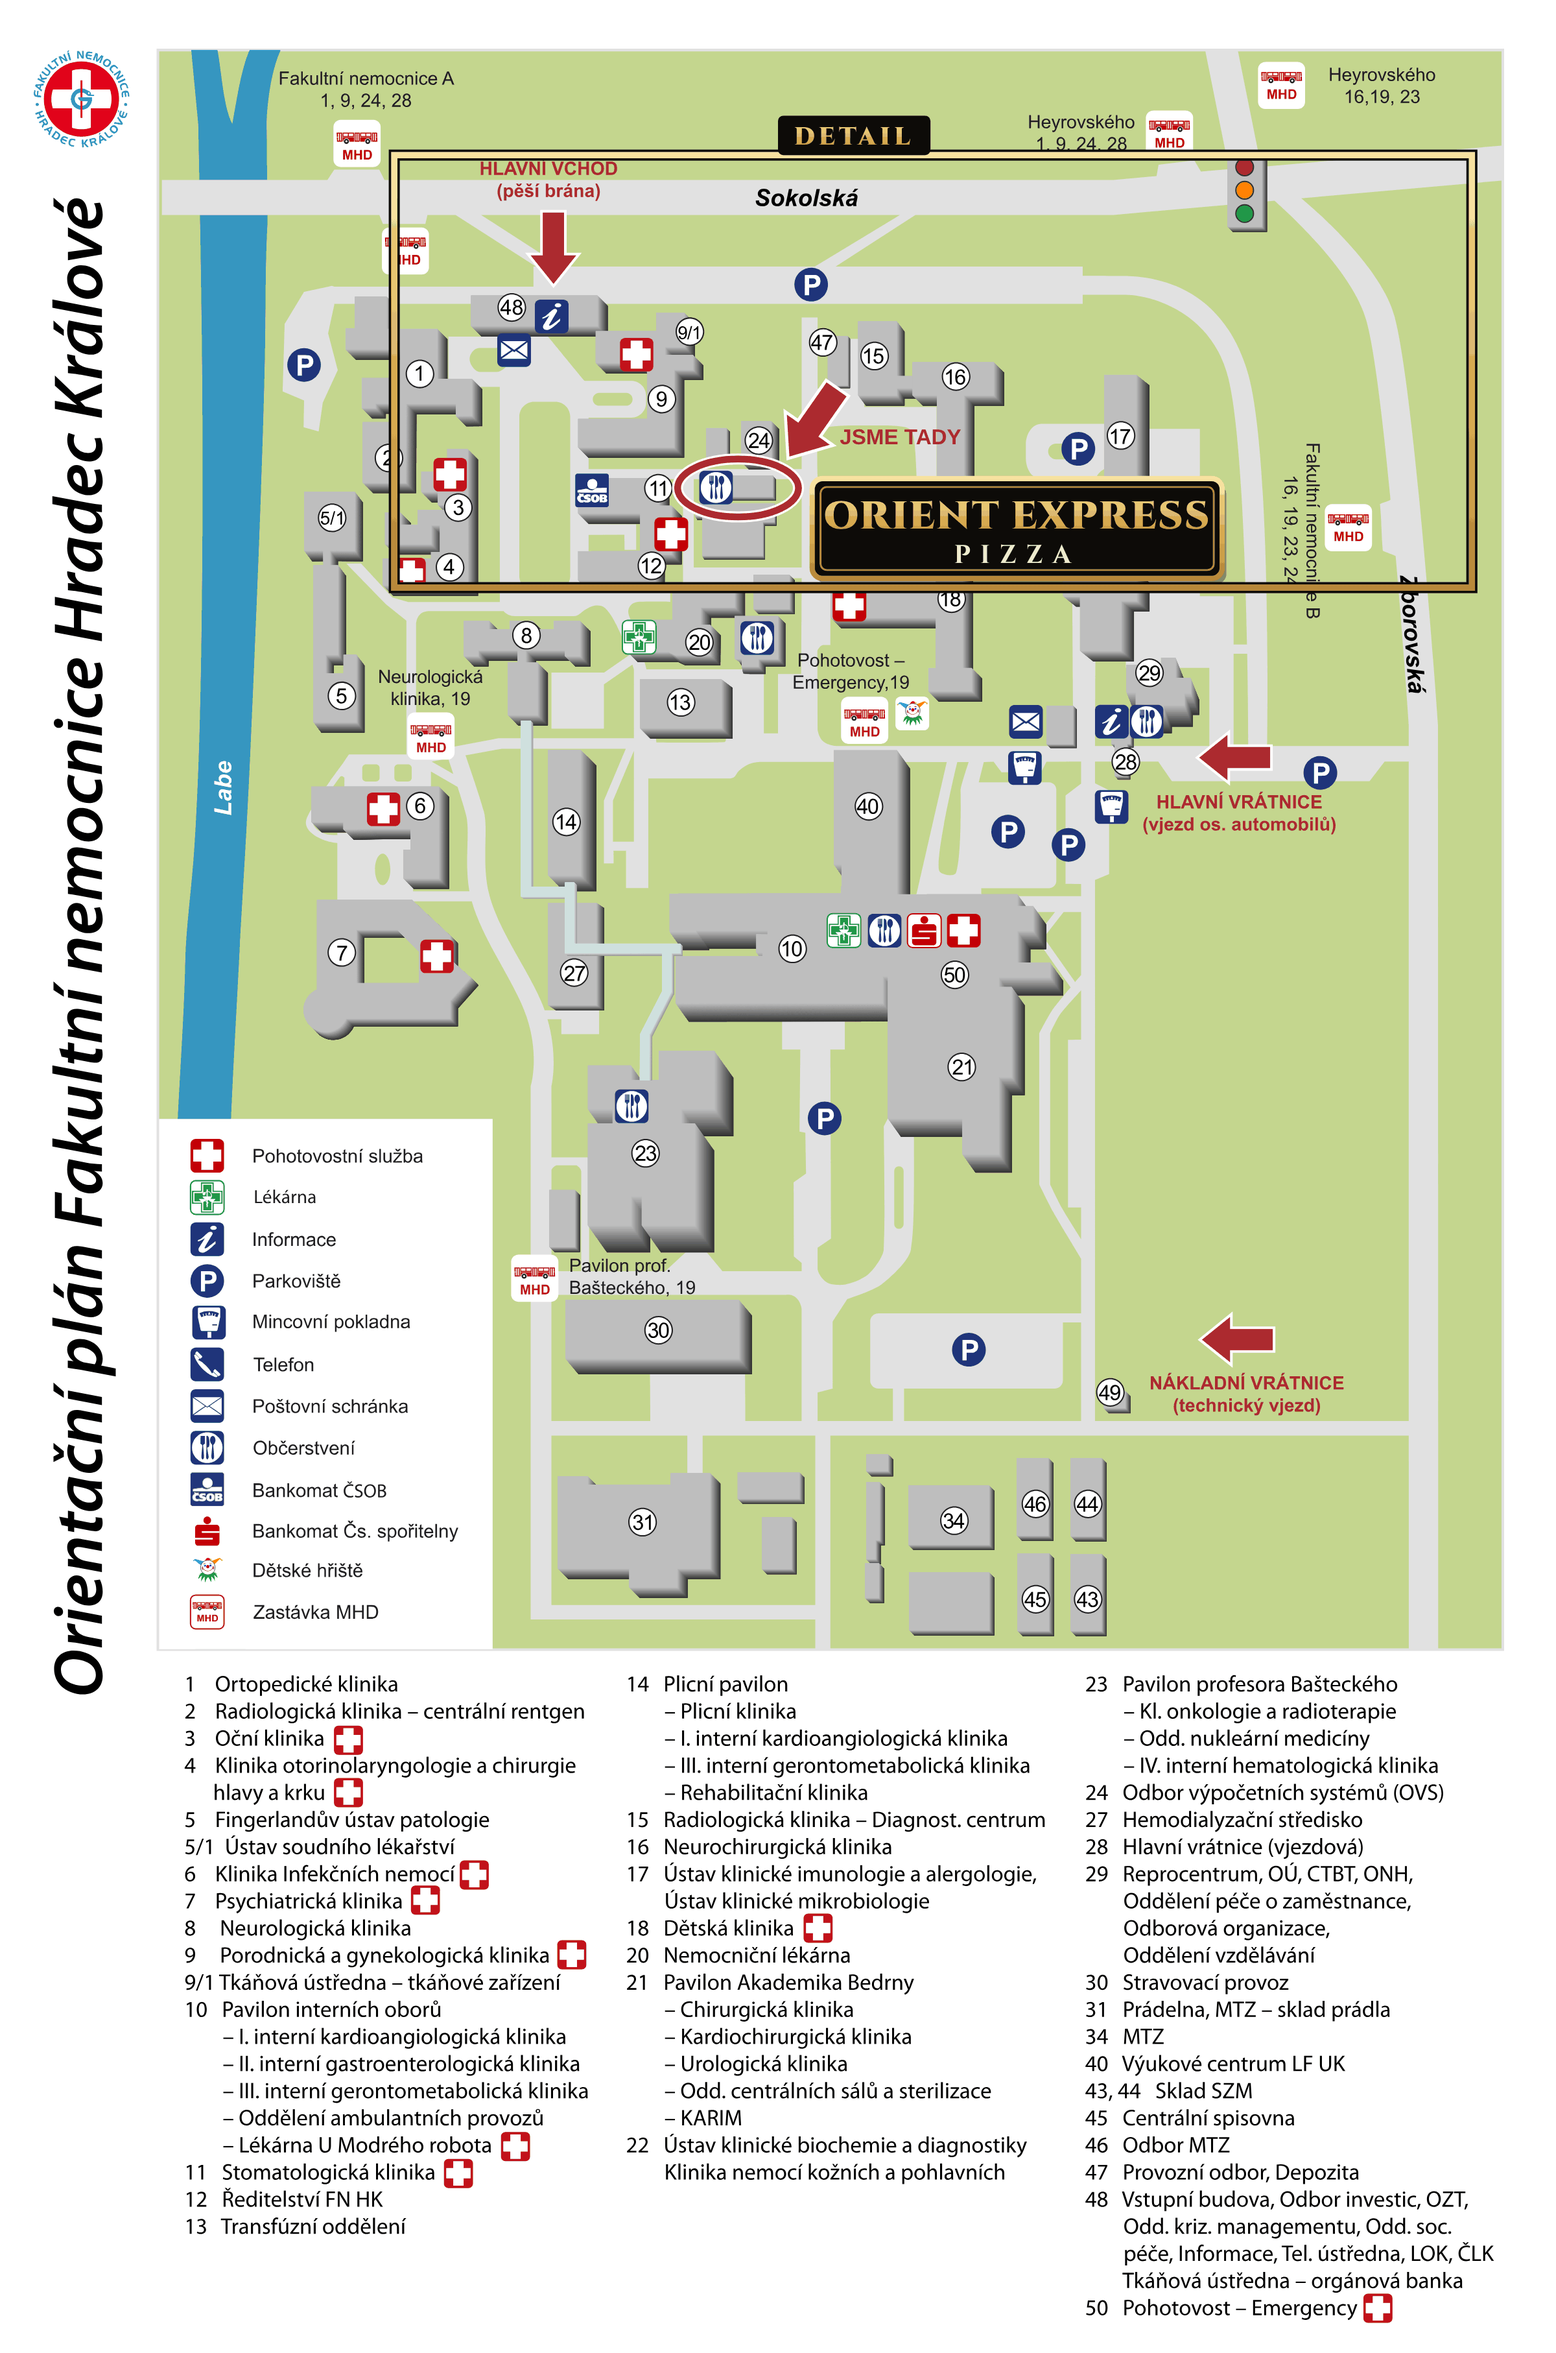
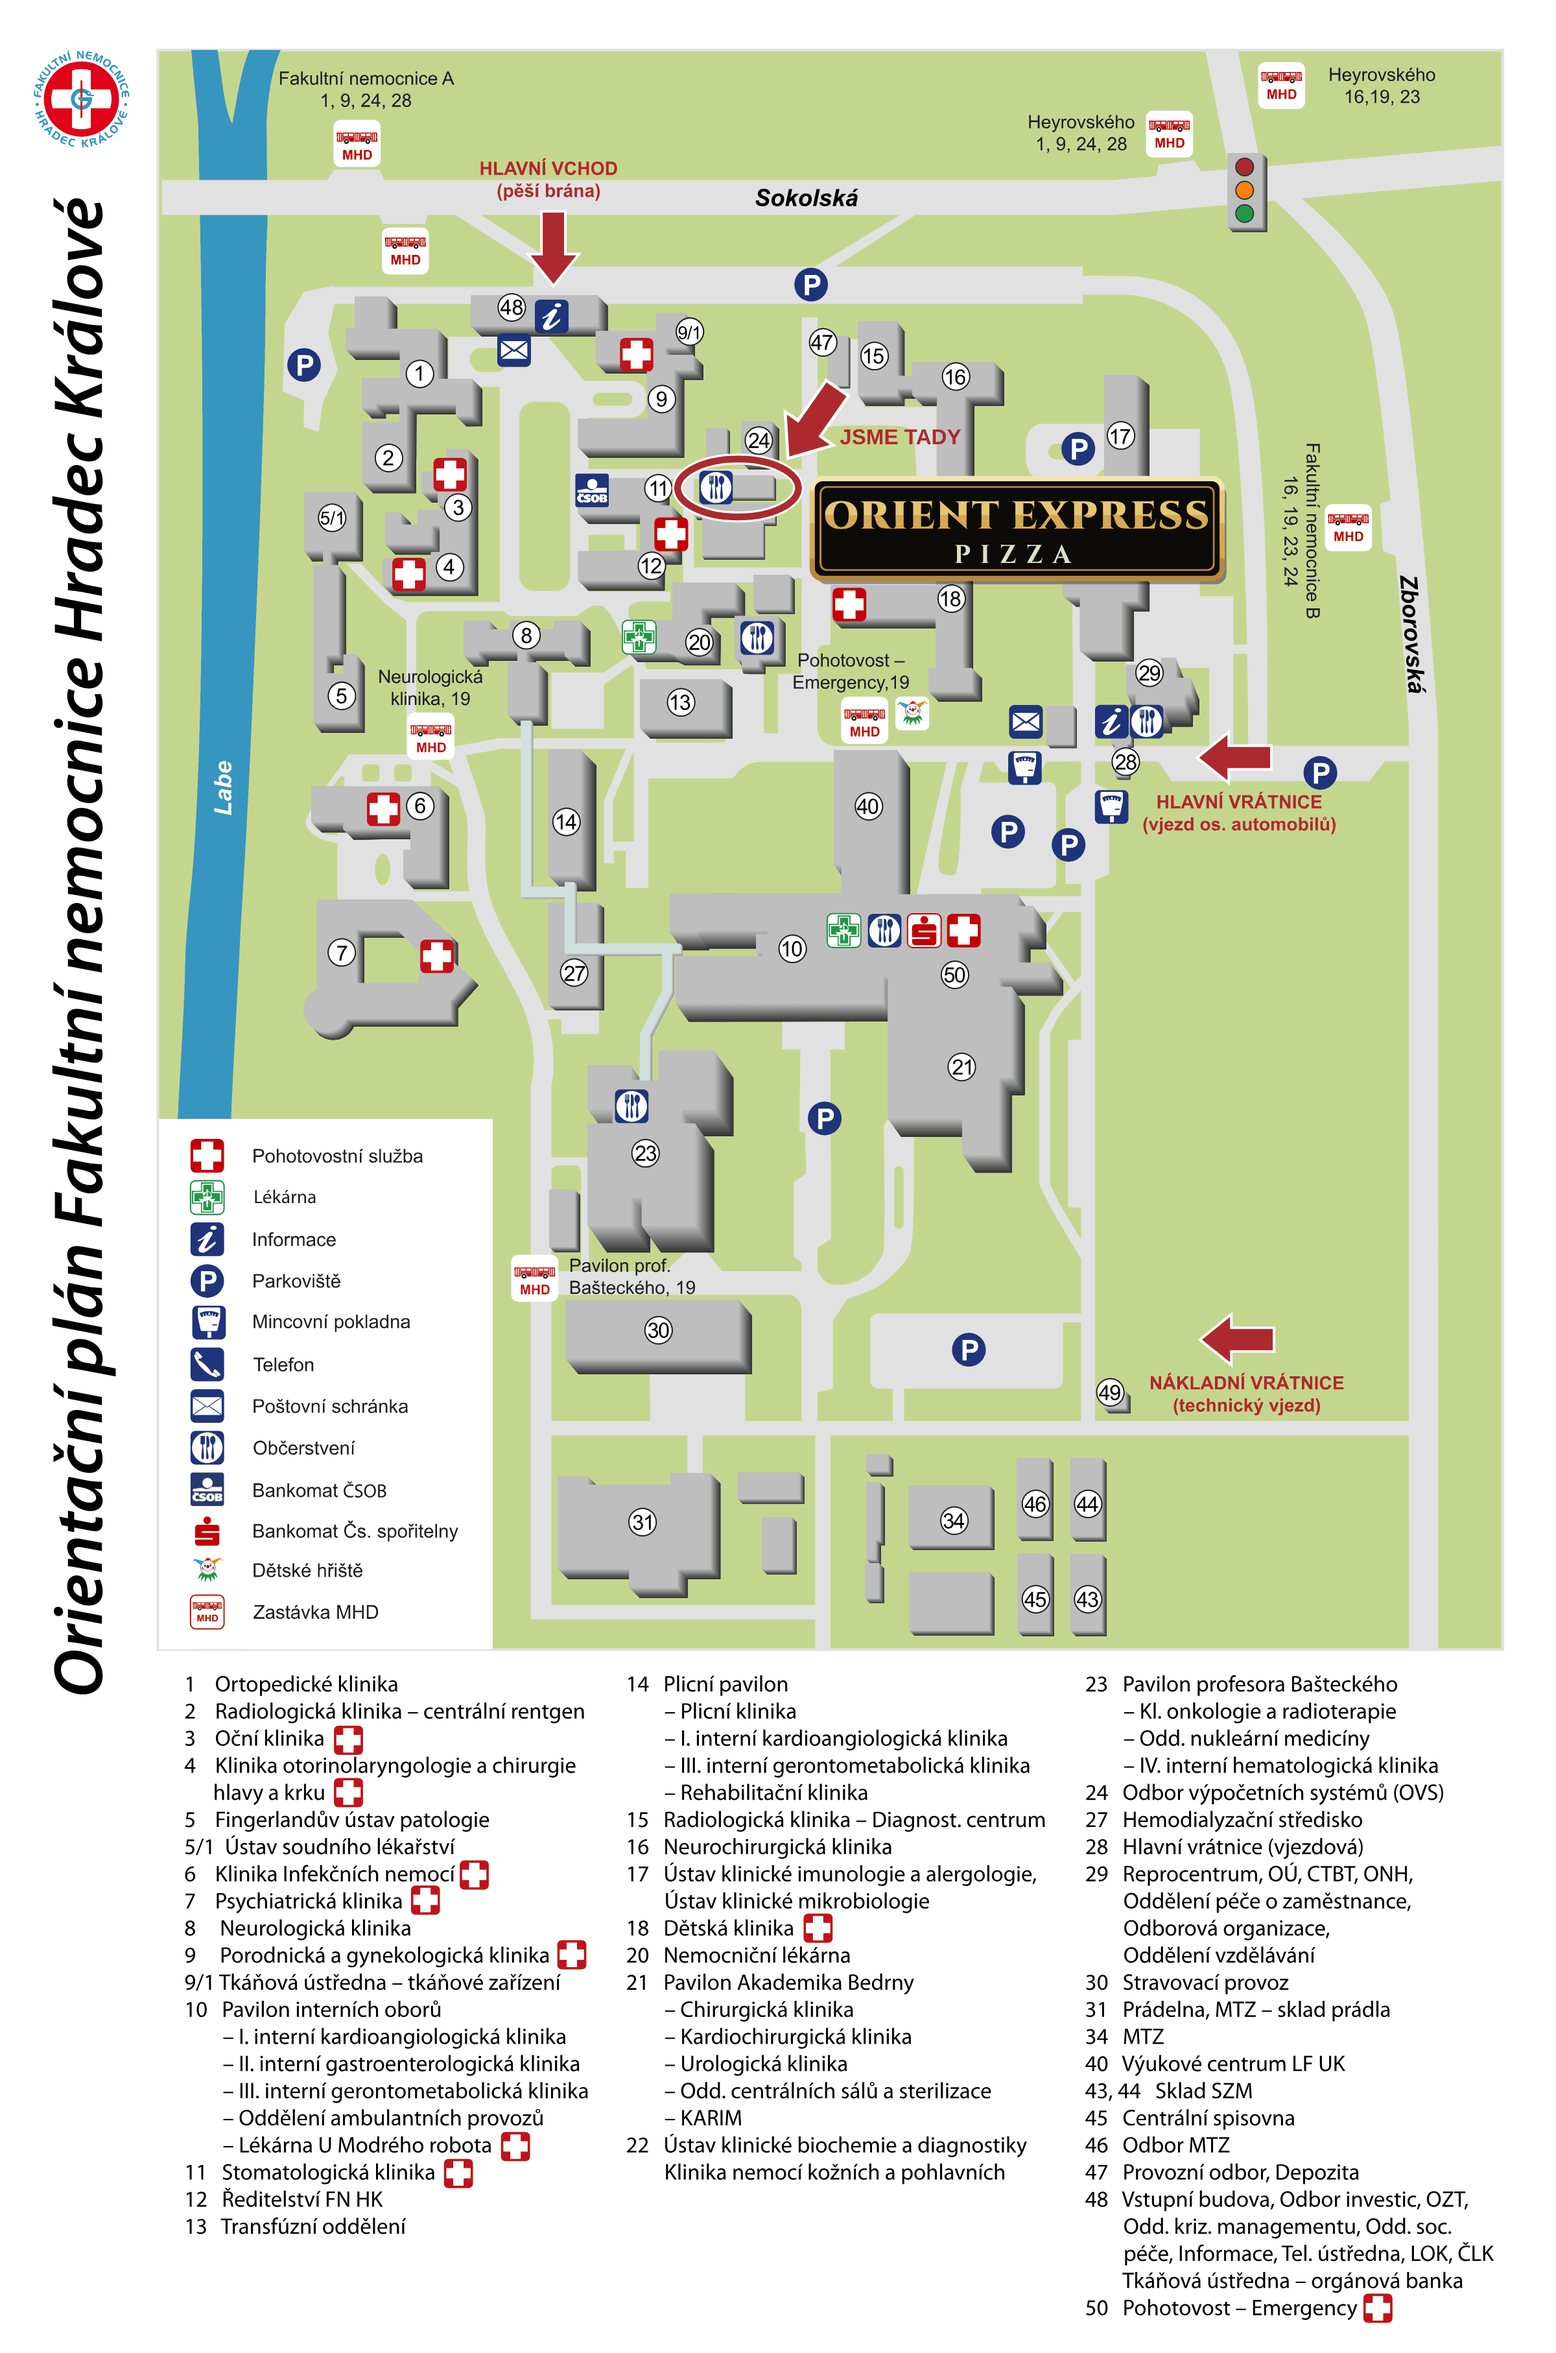
Remove DETAIL frame and detail crop from the campus map
Restore the frameless map (same overlay, from iteration 4), drop the
detail figure, its CSS and mapa-detail.png, and strip the frame/crop
code from the map scripts. Move CLAUDE.md and CNAME out of the
published site; CNAME returns when the domain is linked.

Changed region(s): [[0.25, 0.0311, 0.9688, 0.2492], [0.5312, 0.2492, 0.5625, 0.2803], [0.4688, 0.2492, 0.5, 0.2803]]

diff --git a/index.html b/index.html
@@ -121,16 +121,6 @@ h2 { font-family: 'Cinzel'; font-weight: 700; text-align: center; color: var(--g
 .hours td { padding: 3px 0; } .hours td:last-child { text-align: right; color: var(--muted); }
 .mapimg { display: block; border: 2px solid var(--gold-d); border-radius: 12px; overflow: hidden; background: #fff; }
 .mapcap { color: var(--muted); font-size: 15px; margin-top: 8px; text-align: center; }
-/* card + detail stacked in the left column, full map spans both rows on the right */
-.contact .card { grid-column: 1; grid-row: 1; }
-.contact { grid-template-rows: auto 1fr; }
-.contact .detail { grid-column: 1; grid-row: 2; position: relative; margin: 0; align-self: start; }
-.contact .fullmap { grid-column: 2; grid-row: 1 / span 2; }
-.detail a { display: block; border: 4px solid var(--gold); outline: 2px solid #0d0b08; outline-offset: -6px;
-            border-radius: 6px; overflow: hidden; background: #fff; }
-.detail .dtag { position: absolute; top: -14px; left: 50%; transform: translateX(-50%); z-index: 1;
-                background: #0d0b08; border: 2px solid var(--gold); border-radius: 4px; padding: 2px 14px;
-                font-family: 'Cinzel'; font-weight: 900; font-size: 15px; letter-spacing: 3px; color: var(--gold-l); }
 .gmap { margin-top: 28px; border: 2px solid var(--gold-d); border-radius: 12px; overflow: hidden; }
 .gmap iframe { width: 100%; height: 360px; border: 0; display: block; }
 
@@ -142,9 +132,6 @@ footer { text-align: center; padding: 28px 0 90px; color: var(--muted); font-siz
 @media (max-width: 820px) {
   .top nav { display: none; }
   .menu-grid, .akce-grid, .contact { grid-template-columns: 1fr; }
-  .contact { grid-template-rows: none; }
-  .contact .card, .contact .detail, .contact .fullmap { grid-column: 1; grid-row: auto; }
-  .contact .detail { margin-top: 10px; }
   .callbar { display: flex; position: fixed; left: 0; right: 0; bottom: 0; z-index: 20; gap: 10px; padding: 10px 16px;
              background: rgba(13,11,8,.95); border-top: 1px solid var(--gold-d); }
   .callbar .btn { flex: 1; justify-content: center; padding: 12px 8px; font-size: 16px; }
@@ -276,11 +263,6 @@ footer { text-align: center; padding: 28px 0 90px; color: var(--muted); font-siz
             <tr><td>Ne</td><td>Zavřeno</td></tr>
           </table>
         </div>
-        <!-- DETAIL: výřez plánu (zlatý rámeček „DETAIL“ na celém plánu) -->
-        <figure class="detail">
-          <span class="dtag">DETAIL</span>
-          <a href="obrazky/mapa-detail.png"><img src="obrazky/mapa-detail.png" alt="Detail plánu: Orient Express Pizza u budovy č. 24, hlavní vchod ze Sokolské" width="1662" height="667" loading="lazy"></a>
-        </figure>
         <div class="fullmap">
           <a class="mapimg" href="obrazky/mapa-arealu-fnhk.png"><img src="obrazky/mapa-arealu-fnhk.png" alt="Orientační plán areálu FN Hradec Králové s vyznačeným Orient Express Pizza" width="2400" height="3628" loading="lazy"></a>
           <p class="mapcap">Plán areálu FN Hradec Králové – klepnutím zvětšíte.</p>

diff --git a/zdroje/mapa/render_map.py b/zdroje/mapa/render_map.py
@@ -1,4 +1,4 @@
-# Regenerates obrazky/mapa-arealu-fnhk.png (with DETAIL frame) and obrazky/mapa-detail.png.
+# Regenerates obrazky/mapa-arealu-fnhk.png.
 # Run from this folder:  pdftocairo -svg mapa-fnhk-original.pdf mapa.svg  (once)
 #                        python3 render_map.py
 # Needs: playwright (chromium), Pillow, fonts Cinzel[wght].ttf + Arimo[wght].ttf in ./fonts (or FONTS_DIR).
@@ -7,7 +7,6 @@ from playwright.async_api import async_playwright
 from PIL import Image
 
 K = 2400 / 592                       # px per PDF point
-DETAIL = (150, 59, 560, 223.5)        # detail crop in PDF points – keep in sync with DZ in overlay.py
 OUT = os.path.abspath("../../obrazky")
 
 async def shot(path):
@@ -24,12 +23,7 @@ def q(im):
 
 if not os.path.exists("mapa.svg"):
     subprocess.run(["pdftocairo", "-svg", "mapa-fnhk-original.pdf", "mapa.svg"], check=True)
-for frame in ("0", "1"):
-    subprocess.run([sys.executable, "overlay.py"], check=True, env={**os.environ, "FRAME": frame})
-    asyncio.run(shot(f"mapa_oe_{frame}.png"))
-plain = Image.open("mapa_oe_0.png").convert("RGB")
-framed = Image.open("mapa_oe_1.png").convert("RGB")
-q(framed).save(f"{OUT}/mapa-arealu-fnhk.png", optimize=True)
-x0, y0, x1, y1 = DETAIL
-q(plain.crop((round(x0*K), round(y0*K), round(x1*K), round(y1*K)))).save(f"{OUT}/mapa-detail.png", optimize=True)
+subprocess.run([sys.executable, "overlay.py"], check=True)
+asyncio.run(shot("mapa_oe.png"))
+q(Image.open("mapa_oe.png").convert("RGB")).save(f"{OUT}/mapa-arealu-fnhk.png", optimize=True)
 print("hotovo:", OUT)

diff --git a/zdroje/mapa/overlay.py b/zdroje/mapa/overlay.py
@@ -43,22 +43,7 @@ label = f'''
   <text x="{x0+w/2}" y="{y0+32}" text-anchor="middle" font-family="Cinzel" font-weight="700" font-size="9.8"
         letter-spacing="3.6" fill="#f5e9cc">PIZZA</text>
 </g>'''
-import os
-# optional gold frame marking the zoomed-in area (DZ = detail zone, in PDF points)
-DZ = (150, 59, 560, 223.5)
-TABX = 296          # DETAIL tab position on the frame's top edge (empty spot)
-frame = ""
-if os.environ.get("FRAME") == "1":
-    fx0, fy0, fx1, fy1 = DZ
-    frame = f'''
-<g id="detail-frame">
-  <rect x="{fx0}" y="{fy0}" width="{fx1-fx0}" height="{fy1-fy0}" fill="none" stroke="#0d0b08" stroke-width="4.2"/>
-  <rect x="{fx0}" y="{fy0}" width="{fx1-fx0}" height="{fy1-fy0}" fill="none" stroke="url(#oeGold)" stroke-width="2.4"/>
-  <rect x="{TABX}" y="{fy0-15}" width="58" height="15" rx="2" fill="#0d0b08"/>
-  <text x="{TABX+29}" y="{fy0-4}" text-anchor="middle" font-family="Cinzel" font-weight="900" font-size="9.5"
-        letter-spacing="1.5" fill="url(#oeGold)">DETAIL</text>
-</g>'''
-svg = svg.replace("</svg>", label + frame + "\n</svg>")
+svg = svg.replace("</svg>", label + "\n</svg>")
 open("./mapa_oe.svg", "w", encoding="utf-8").write(svg)
 html = f'''<!doctype html><html><head><meta charset="utf-8"><style>
 @font-face {{ font-family: 'Cinzel'; src: url('file://{F}/Cinzel[wght].ttf'); font-weight: 400 900; }}

diff --git a/README.md b/README.md
@@ -19,8 +19,7 @@ Doporučení: JPG, šířka 1500–2600 px, velikost do ~500 kB.
 | menu-4-panini.jpg | Italské panini |
 | akce-1-kofte-pizza.jpg | Köfte v chlebu / Bowl / Pizza |
 | akce-3-coca-cola.jpg | Akce Coca-Cola zdarma |
-| mapa-arealu-fnhk.png | Plán areálu FN HK s vyznačeným Orient Express Pizza a rámečkem DETAIL |
-| mapa-detail.png | Výřez plánu (oblast zlatého rámečku DETAIL) |
+| mapa-arealu-fnhk.png | Plán areálu FN HK s vyznačeným Orient Express Pizza |
 | nahled-sdileni.jpg | Náhled při sdílení odkazu (1200×630) |
 
 ## Telefon, adresa, otevírací doba
